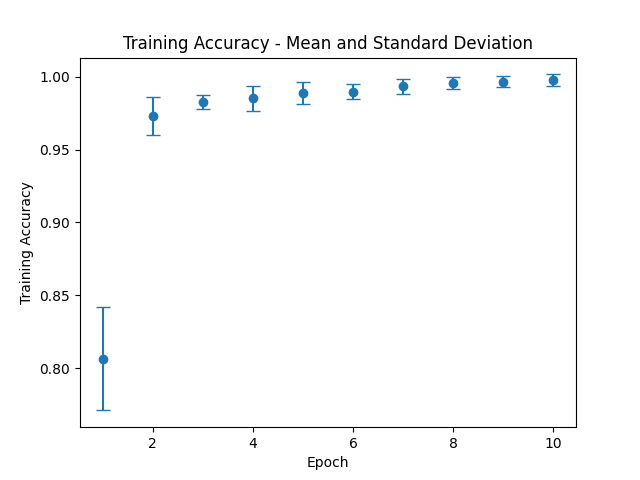
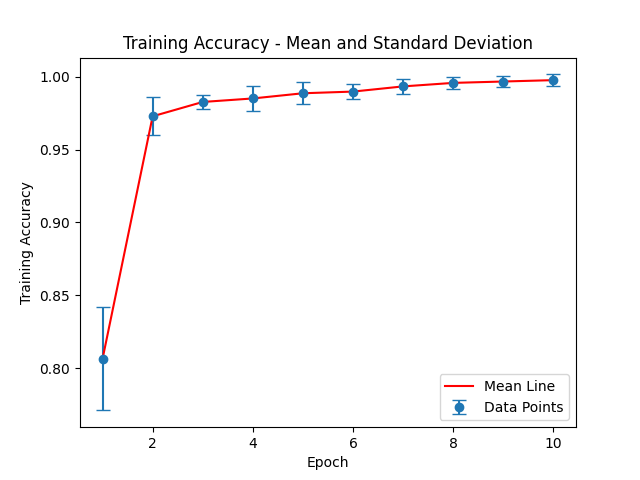
plots

diff --git a/analysis/mainAnalysis.py b/analysis/mainAnalysis.py
@@ -1,5 +1,5 @@
-import csv
 import os
+import csv
 import numpy as np
 import seaborn as sns
 import matplotlib.pyplot as plt
@@ -56,10 +56,12 @@ def main():
 
         # Create point plot with error bars using matplotlib
         plt.figure()
-        plt.errorbar(statistics['Epoch'], mean_value, yerr=std_deviation, fmt='o', capsize=5)
+        plt.errorbar(statistics['Epoch'], mean_value, yerr=std_deviation, fmt='o', capsize=5, label='Data Points')
+        plt.plot(statistics['Epoch'], mean_value, label='Mean Line', color='red')  # Add the line
         plt.xlabel('Epoch')
         plt.ylabel(key)
         plt.title(f'{key} - Mean and Standard Deviation')
+        plt.legend()
         plt.show()
 
 if __name__ == "__main__":
